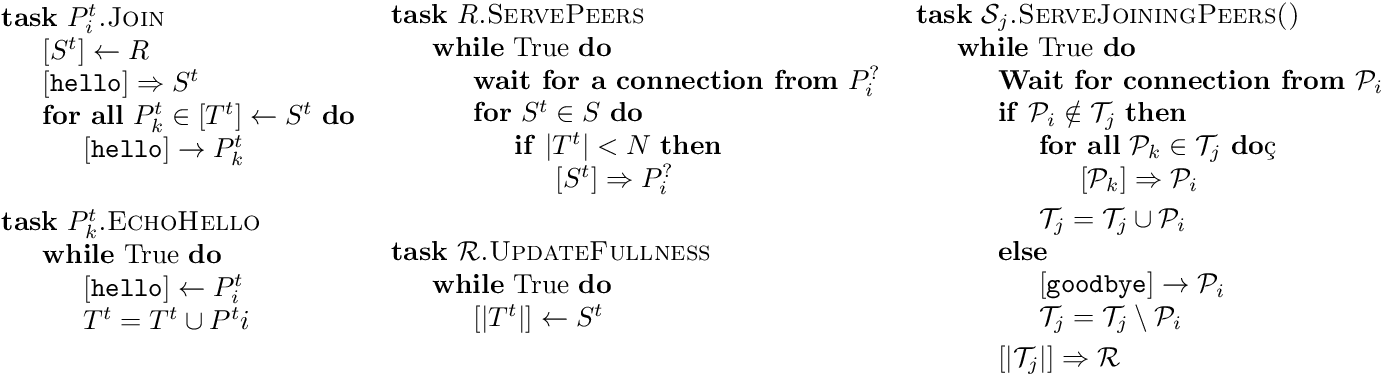
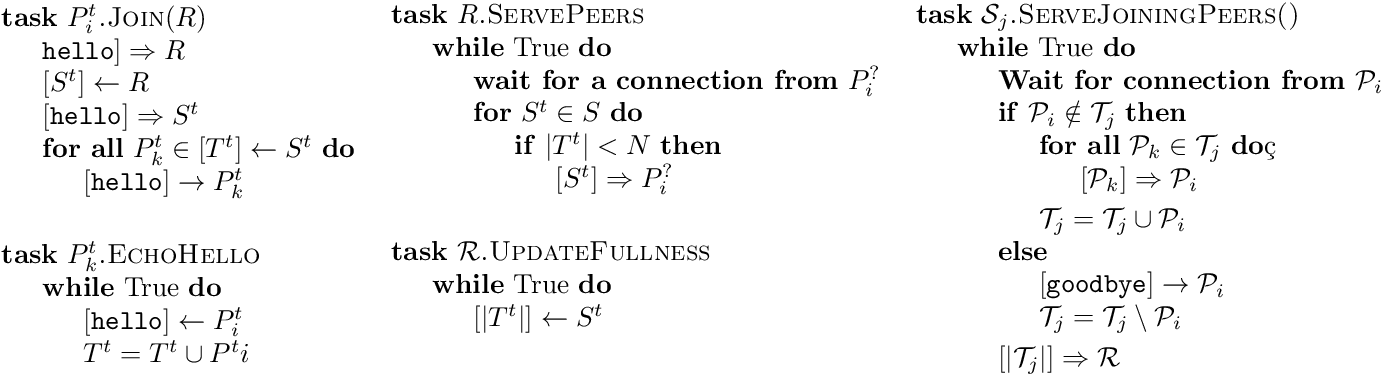
.

diff --git a/index.html b/index.html
@@ -24,7 +24,7 @@ src="http://cdn.mathjax.org/mathjax/latest/MathJax.js?config=TeX-AMS-MML_HTMLorM
  <div class="author" ><span 
 class="ecrm-1200">The P2PSP team</span></div><br />
 <div class="date" ><span 
-class="ecrm-1200">August 1, 2018</span></div>
+class="ecrm-1200">August 2, 2018</span></div>
    </div>
    <h3 class="likesectionHead"><a 
  id="x1-1000"></a>Contents</h3>

diff --git a/graphics/peer_joining.tex b/graphics/peer_joining.tex
@@ -12,7 +12,8 @@
 \algrenewcommand\algorithmicprocedure{\textbf{task}}
 
 \begin{algorithmic}
-  \Procedure{$P^t_i$.Join}{}
+  \Procedure{$P^t_i$.Join}{$R$}
+  \State $[\mathtt{hello}] \send R$
   \State $[S^t] \gets R$
   %\ForAll{${\cal S}^j\in {\cal S}$}
   \State $[\mathtt{hello}] \send S^t$
@@ -35,7 +36,7 @@
   \State $[\mathtt{hello}] \gets P^t_i$
   %\State $[\mathtt{hello}] \sendto {\cal P}_i$
   %\State $N({\cal P}_k) = N({\cal P}_k) \cup {\cal P}_i$
-  \State $T^t = T^t \cup P^ti$
+  \State $T^t = T^t \cup P^t_i$
   \EndWhile
   \EndProcedure
   
